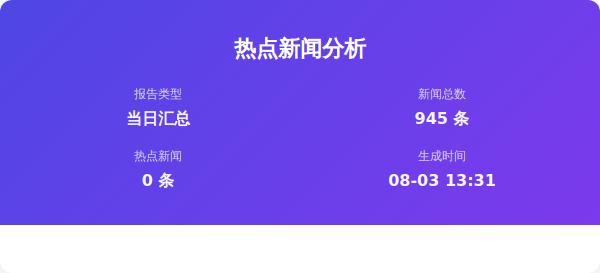
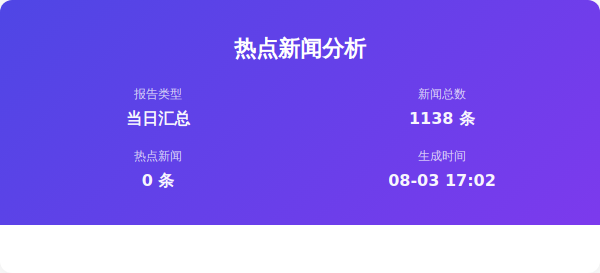
Auto update by GitHub Actions at Mon Aug  3 17:02:23 CST 2026

Changed region(s): [[0.66, 0.4103, 0.81, 0.4689], [0.75, 0.6447, 0.84, 0.674]]

diff --git a/output/2026年08月03日/html/当日汇总.html b/output/2026年08月03日/html/当日汇总.html
@@ -357,7 +357,7 @@
                     </div>
                     <div class="info-item">
                         <span class="info-label">新闻总数</span>
-                        <span class="info-value">945 条</span>
+                        <span class="info-value">1138 条</span>
                     </div>
                     <div class="info-item">
                         <span class="info-label">热点新闻</span>
@@ -365,7 +365,7 @@
                     </div>
                     <div class="info-item">
                         <span class="info-label">生成时间</span>
-                        <span class="info-value">08-03 13:31</span>
+                        <span class="info-value">08-03 17:02</span>
                     </div>
                 </div>
             </div>

diff --git a/output/2026年08月03日/html/17时02分.html b/output/2026年08月03日/html/17时02分.html
@@ -353,11 +353,11 @@
                 <div class="header-info">
                     <div class="info-item">
                         <span class="info-label">报告类型</span>
-                        <span class="info-value">当日汇总</span>
+                        <span class="info-value">实时分析</span>
                     </div>
                     <div class="info-item">
                         <span class="info-label">新闻总数</span>
-                        <span class="info-value">1138 条</span>
+                        <span class="info-value">255 条</span>
                     </div>
                     <div class="info-item">
                         <span class="info-label">热点新闻</span>
